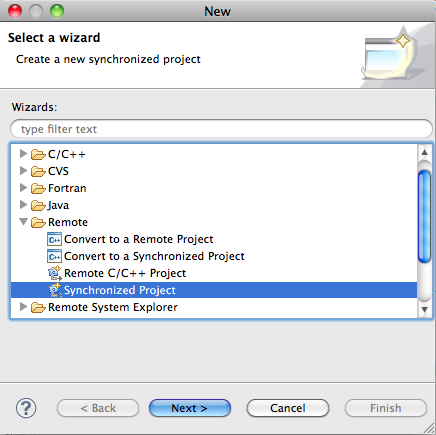
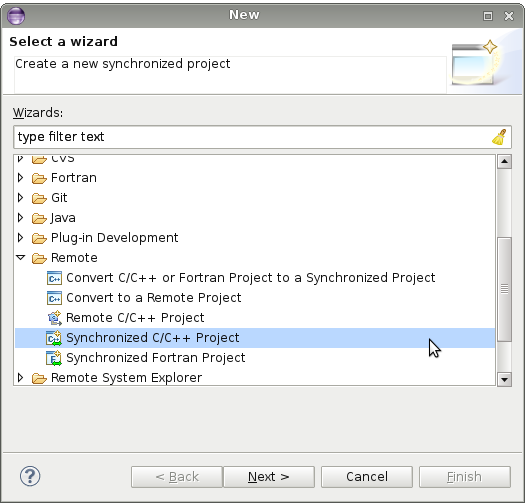
Preliminary changes to docs for Juno

Changed region(s): [[0.0, 0.0, 1.0, 1.0]]

diff --git a/core/org.eclipse.ptp.doc.user/html/sync.html b/core/org.eclipse.ptp.doc.user/html/sync.html
@@ -25,70 +25,49 @@ connection is lost.
 <p>To host a synchronized project, the remote system must support the <a href="http://git-scm.com/">Git</a> distributed version control system.
 
 <h2 id=create>Creating a new Synchronized Project</h2>
-<p>To create a new Synchronized Project, use the following steps:</p>
-<ol>
-<li>
+<p>To create a new Synchronized Project, first select an appropriate wizard:</p>
 Select <b>File > New > Other...</b>
-and in the wizard selection dialog, then select <b>Remote > Synchronized Project</b>.
+and in the wizard selection dialog, then select <b>Remote > Synchronized C/C++ Project</b> or <b>Synchronized Fortran Project</b>
 <p><br></p>
 <p><img src="images/sync-newproj.png">
 <p><br></p>
 <p>Or, from the context menu (right-mouse) in the Project Explorer,
-select <b>New > Synchronized Project</b>
+select <b>New > Synchronized C/C++ Project</b> or <b>Synchronized Fortran Project</b>
 <p><br></p>
 <p><img src="images/sync-newprojContext.png">
 <p><br></p>
-</li>
-<li>
-Enter a name for the project
+Now fill out the dialog shown. As for any Eclipse project, give the project name and location, which must be a local directory for
+a Synchronized Project. Next, indicate the remote location by specifying a connection and remote directory.
+Then specify the project type. Finally, select toolchains to be used for remote and local sites.
+Normally, you will select only one toolchain in each case, but it is possible to select multiple toolchains.
 <p><br></p>
-</li>
-<li>Choose <b>Makefile Project > Empty Project</b> for the <b>Project type</b>
+Select <b>Next</b> to scroll through the remaining pages, which differ based on the selected project types and toolchains.
+At some point, you should see the configuration page, which will list a separate build configuration for each toolchain.
+
+ADD CONFIG PAGE
+
+From here, you can configure certain properties, but this can be done after project creation as well.
+Note that if you select the same toolchain for both local and remote, only one configuration is shown.
+During project creation, this configuration will be duplicated, one for local and one for remote.
 <p><br></p>
 <p><img src="images/sync-newprojCreate.png">
 <p><br></p>
-</li>
-<li>
-<p>Select <b>Next > </b> and then <b>Next > </b> again.</p>
-<p><br></p>
-</li>
-<li>
-On the "Configure Remote Synchronization" page, you should see the Git Synchronization Provider is already selected (different providers
-may be available in the future). Select an existing connection or create a new one. 
-<p><br></p>
-<p><img src="images/sync-newprojNewConnection.png">
-<p><br></p>
-<li>
+Select an existing connection or create a new one. 
 Select the <b>New...</b> button to create a new remote connection with the <b>Remote Tools</b> remote service provider.
 The Target Environment Configuration dialog is shown. Fill in host name, user, and password (or other authentication
 information).
 <p><br></p>
 <p><img src="images/sync-newprojConnection.png">
 <p><br></p>
-</li>
-<li>
 Select <b>Finish</b>.  The connection will be tested at this
 point before returning to the <b>Configure Remote Synchronization</b> page.
 <p><br></p>
-</li>
-<li>
 Specify a remote location by selecting <b>Browse...</b>
-<p><br></p>
-<p><img src="images/sync-newprojConfigLocn.png">
-<p><br></p>
-<li>
 A <b>Browse Directory</b> dialog appears in which you can navigate to find the directory
 in which your new project's files will be contained on the remote system. Hit <b>OK</b> to finish.
 The <b>Configure Remote Synchronization</b> page now contains the location of the remote files:
-<p><br></p>
-<p><img src="images/sync-newprojLocn.png">
-<p><br></p>
-</li>
-<li>
 Hit <b>Finish</b> to complete project creation. If the remote location does not exist, it is
 created. Otherwise, the files in that directory will be synchronized to the local workspace.
-</li>
-</ol>
 
 <h2 id="work">Working with a Synchronized Project</h2>
 <p>Edit the files as you would any local project.
